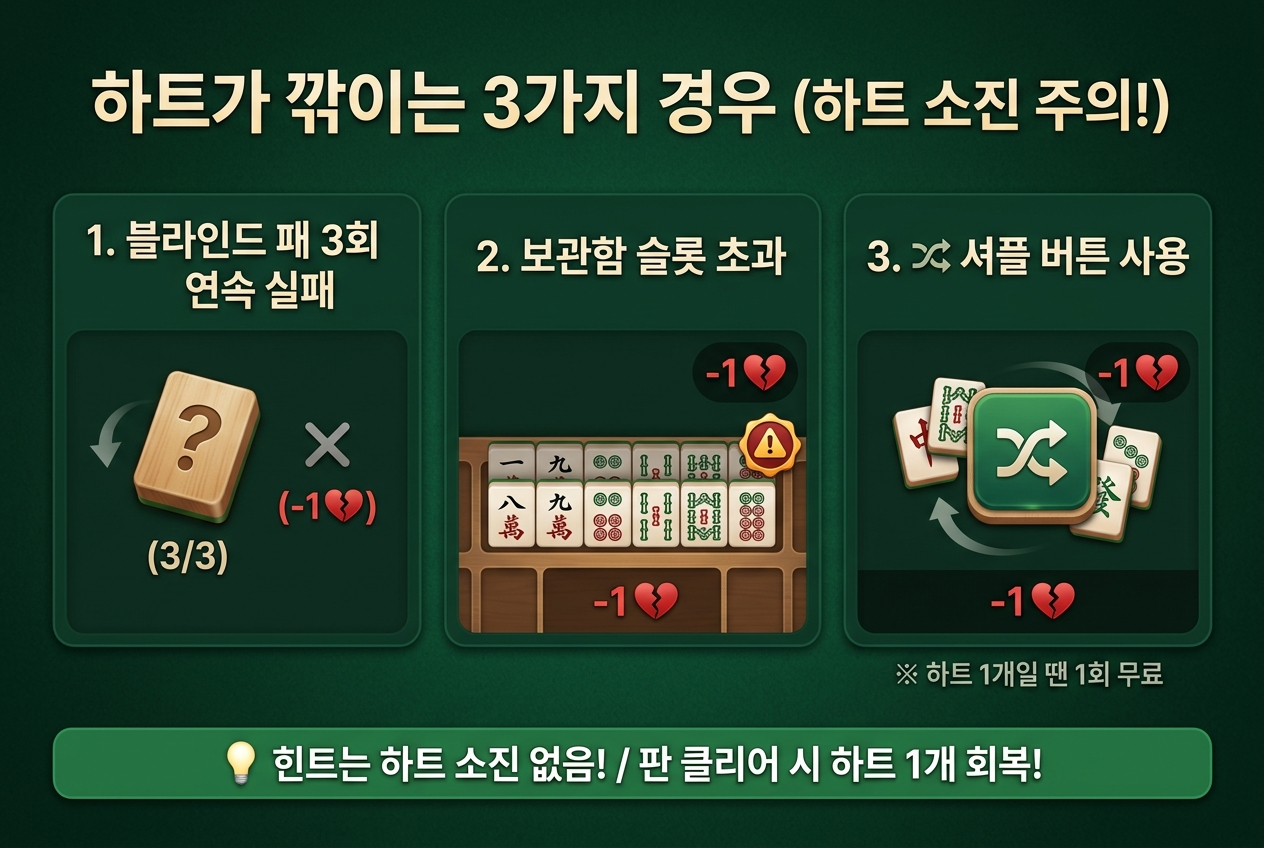
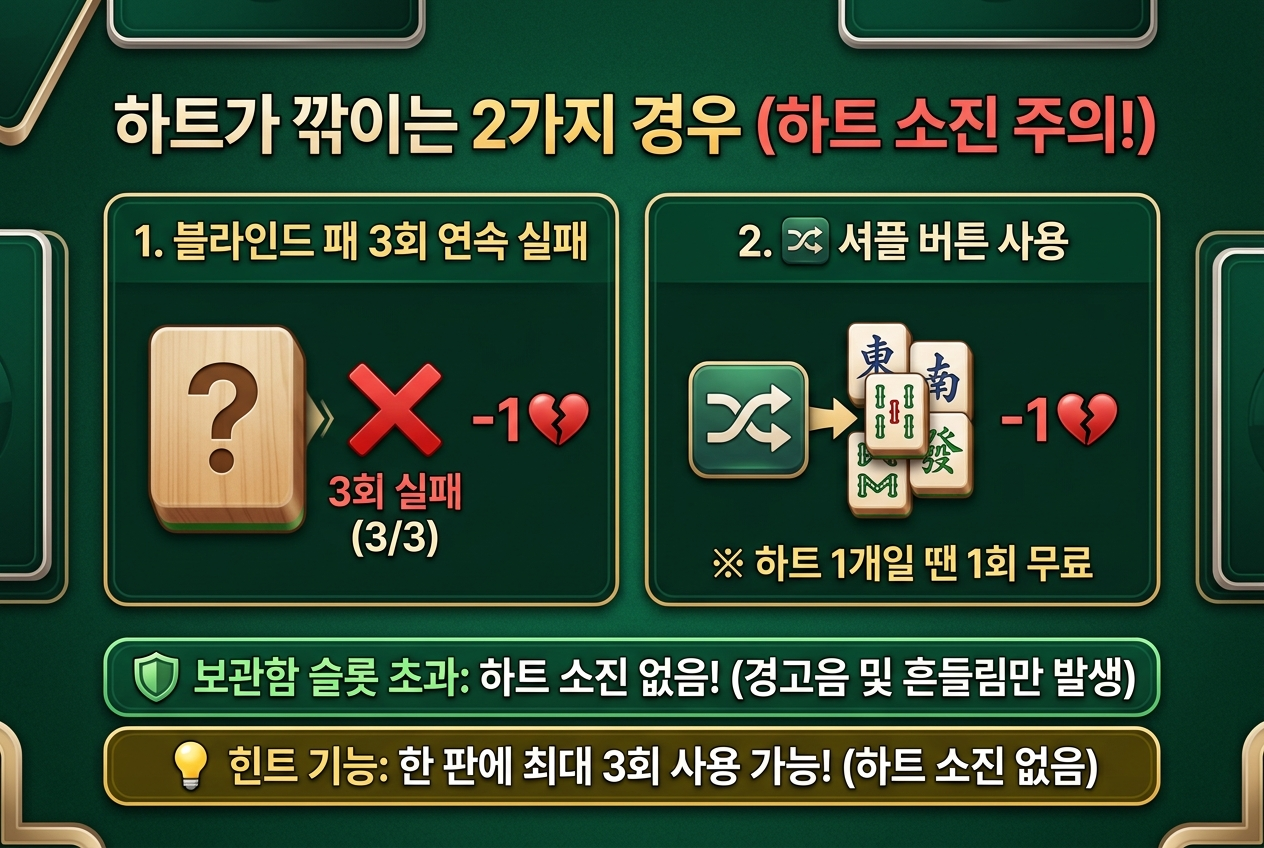
feat: 보관함 포화 시 하트 보존(경고음만), 하트 소진 2가지(셔플/블라인드 실패) 한정, 힌트 판당 3회 제한 구현

diff --git a/majongMain.html b/majongMain.html
@@ -2862,8 +2862,8 @@
       <button class="btn btn-dock" id="btn-undo" title="한 수 되돌리기">
         <span class="btn-icon">↩</span><span class="btn-label">되돌리기</span>
       </button>
-      <button class="btn btn-dock" id="btn-hint" title="매치 짝 힌트">
-        <span class="btn-icon">💡</span><span class="btn-label">힌트</span>
+      <button class="btn btn-dock" id="btn-hint" title="매치 짝 힌트 (판당 최대 3회)">
+        <span class="btn-icon">💡</span><span class="btn-label" id="hint-label">힌트 (3)</span>
       </button>
       <button class="btn btn-dock" id="btn-shuffle" title="패 섞기 (하트 1개 소모)">
         <span class="btn-icon">🔀</span><span class="btn-label">셔플</span>
@@ -2993,13 +2993,13 @@
     </div>
   </div>
 
-  <!-- 게임방법 간단설명 (하트 소진 가이드) 모달 -->
+  <!-- 게임방법 간단설명 (하트 소진 2가지 가이드) 모달 -->
   <div class="modal-overlay" id="quick-rules-modal">
     <div class="modal-card quick-rules-card">
       <div class="quick-rules-header">
         <div style="display: flex; align-items: center; gap: 8px;">
           <span style="font-size: 22px;">💔</span>
-          <h2 class="modal-title" style="margin-bottom: 0; font-size: 20px; color: #123927;">하트가 깎이는 3가지 경우</h2>
+          <h2 class="modal-title" style="margin-bottom: 0; font-size: 20px; color: #123927;">하트가 깎이는 2가지 경우</h2>
         </div>
         <button class="quick-rules-close-icon" id="btn-quick-rules-close-x" aria-label="닫기">✕</button>
       </div>
@@ -3007,10 +3007,10 @@
       <div class="quick-rules-body">
         <!-- 인포그래픽 이미지 한 컷 -->
         <div class="quick-rules-img-container">
-          <img src="assets/quick_rules_guide.jpg" alt="시연 마작 하트 소진 3가지 규칙 인포그래픽" class="quick-rules-img">
+          <img src="assets/quick_rules_guide.jpg" alt="시연 마작 하트 소진 2가지 규칙 인포그래픽" class="quick-rules-img">
         </div>
 
-        <!-- 하트 소진 3가지 경우 요약 카드 -->
+        <!-- 하트 소진 2가지 경우 및 안전 규칙 요약 카드 -->
         <div class="quick-rules-summary-box">
           <div class="quick-summary-item">
             <span class="quick-step-badge" style="background: linear-gradient(135deg, #e53e3e, #9b2c2c);">1</span>
@@ -3022,22 +3022,21 @@
           <div class="quick-summary-item">
             <span class="quick-step-badge" style="background: linear-gradient(135deg, #e53e3e, #9b2c2c);">2</span>
             <div class="quick-step-content">
-              <strong>보관함 슬롯 초과 (-1💔)</strong>
-              <p>임시 보관함 슬롯이 꽉 찬 상태에서 보드의 패를 추가로 터치하면 <strong>슬롯 초과 경고와 함께 하트 1개</strong>가 깎입니다. (마지막 패는 보드로 자동 반환)</p>
-            </div>
-          </div>
-          <div class="quick-summary-item">
-            <span class="quick-step-badge" style="background: linear-gradient(135deg, #e53e3e, #9b2c2c);">3</span>
-            <div class="quick-step-content">
               <strong>패 셔플 (🔀 버튼) 사용 (-1💔)</strong>
               <p>패를 다시 섞는 [🔀 셔플] 사용 시 <strong>하트 1개</strong>가 소진됩니다. (단, <strong>하트가 1개 남았을 때는 판당 1회 '마지막 기회 무료 셔플'</strong> 발동)</p>
             </div>
           </div>
 
-          <!-- 팁 바 -->
-          <div style="font-size: 12px; color: #1c744f; background: #eaf6ef; border: 1px solid #bfe3cf; border-radius: 8px; padding: 8px 10px; margin-top: 4px; display: flex; align-items: center; gap: 6px;">
-            <span style="font-size: 15px;">💡</span>
-            <span><strong>보너스 팁:</strong> [💡 힌트]는 하트 소진 없이 무료! / 판을 클리어할 때마다 하트 1개 회복!</span>
+          <!-- 보관함 안전 안내 바 -->
+          <div style="font-size: 12.5px; color: #155734; background: #eaf6ef; border: 1px solid #bfe3cf; border-radius: 8px; padding: 8px 10px; display: flex; align-items: center; gap: 8px;">
+            <span style="font-size: 16px;">🛡</span>
+            <div><strong>보관함 슬롯 초과 시:</strong> 하트 소진 없음! (경고음 및 흔들림만 발생)</div>
+          </div>
+
+          <!-- 힌트 안내 바 -->
+          <div style="font-size: 12.5px; color: #744210; background: #fefcbf; border: 1px solid #f6e05e; border-radius: 8px; padding: 8px 10px; display: flex; align-items: center; gap: 8px;">
+            <span style="font-size: 16px;">💡</span>
+            <div><strong>힌트 기능:</strong> 한 판에 <strong>최대 3회</strong> 사용 가능! (하트 소진 없음)</div>
           </div>
         </div>
       </div>
@@ -3081,7 +3080,7 @@
           <div class="rule-num">3</div>
           <div class="rule-text">
             <strong>임시 보관함 슬롯 한도 (난이도별 5~3개)</strong>
-            <p>난이도에 따라 기본 5~3개의 슬롯이 고정 부여됩니다. 슬롯이 꽉 차면 더 이상 패를 넣을 수 없으므로, 같은 모양 2개를 모아 빠르게 비워내야 합니다.</p>
+            <p>난이도에 따라 기본 5~3개의 슬롯이 고정 부여됩니다. 슬롯이 꽉 차면 더 이상 패를 넣을 수 없으며, 이때 보드의 패를 터치하면 <strong>경고음과 흔들림만 발생하고 하트는 소진되지 않습니다</strong>. (보관함의 패를 터치하여 다시 보드로 반환하거나 짝을 맞춰 슬롯을 비울 수 있습니다.)</p>
           </div>
         </div>
         <div class="rule-item">
@@ -3095,9 +3094,8 @@
         <div class="rule-item">
           <div class="rule-num">5</div>
           <div class="rule-text">
-            <strong>도움 기능 & 하트 관리</strong>
-            <p>[🔀 셔플] 사용 시 하트 1개가 소진됩니다. (단, <strong>하트가 1개 남았을 때는 판당 1회 '마지막 기회 무료 셔플'</strong>이 발동됩니다.) 각 판을 클리어하면 하트
-              1개가 회복되며, [💡 힌트]는 하트 소진 없이 사용할 수 있습니다.</p>
+            <strong>도움 기능 (힌트 판당 3회 제한 & 셔플 하트 소진)</strong>
+            <p>[💡 힌트]는 하트 소진 없이 <strong>한 판당 최대 3회까지</strong> 사용할 수 있습니다. [🔀 셔플]은 사용 시 <strong>하트 1개가 소진</strong>됩니다. (단, <strong>하트가 1개 남았을 때는 판당 1회 '마지막 기회 무료 셔플'</strong>이 발동됩니다.) 각 판을 클리어하면 하트 1개가 회복됩니다.</p>
           </div>
         </div>
         <div class="rule-item">
@@ -6801,7 +6799,8 @@
 
         document.getElementById('btn-undo').disabled = true;
         document.getElementById('btn-shuffle').disabled = false;
-        document.getElementById('btn-hint').disabled = false;
+        this.hintsRemaining = 3;
+        this.updateHintUI();
         this.hasUsedLastChanceShuffle = false;
 
         this.buildSolvableBoard();
@@ -6896,7 +6895,8 @@
 
         document.getElementById('btn-undo').disabled = true;
         document.getElementById('btn-shuffle').disabled = false;
-        document.getElementById('btn-hint').disabled = false;
+        this.hintsRemaining = 3;
+        this.updateHintUI();
 
         // 해당 판의 초기 타일 배치 복원 (cloneTileData 사용으로 render 함수 보존)
         if (this.initialTiles && this.initialTiles.length > 0) {
@@ -7812,15 +7812,6 @@
        */
       handleTrayOverflow(lastItem) {
         this.sound.playMiss();
-        if (this.sound.playDamage) this.sound.playDamage();
-
-        const flash = document.getElementById('damage-flash');
-        if (flash) {
-          flash.classList.remove('active');
-          void flash.offsetWidth;
-          flash.classList.add('active');
-          setTimeout(() => flash.classList.remove('active'), 500);
-        }
 
         const trayEl = document.getElementById('tray-container');
         if (trayEl) {
@@ -7829,11 +7820,7 @@
           trayEl.classList.add('danger');
         }
 
-        // 하트 1개 소진
-        this.loseLife();
-
-        if (this.isGameOver) return;
-
+        // 규칙 변경: 보관함 포화 시 하트는 깎이지 않으며 경고음 및 흔들림만 발생
         // 슬롯 동적 확장 없이 마지막으로 들어온 패를 보드로 강제 반환
         setTimeout(() => {
           if (this.trayTiles.length >= this.maxSlots) {
@@ -7901,12 +7888,32 @@
         return pairs;
       }
 
+      updateHintUI() {
+        const btnHint = document.getElementById('btn-hint');
+        const hintLabel = document.getElementById('hint-label');
+        if (hintLabel) {
+          hintLabel.textContent = `힌트 (${this.hintsRemaining})`;
+        }
+        if (btnHint) {
+          btnHint.title = `매치 짝 힌트 (남은 횟수: ${this.hintsRemaining}/3)`;
+          btnHint.disabled = (this.hintsRemaining <= 0);
+        }
+      }
+
       showHint() {
-        if (this.isAutoClearing) return;
+        if (this.isAutoClearing || this.isGameOver || this.isClear) return;
+        if (this.hintsRemaining <= 0) {
+          this.sound.playMiss();
+          alert("이번 판에서 사용 가능한 힌트(3회)를 모두 소진했습니다!");
+          return;
+        }
+
         this.clearHints();
         const pairs = this.getAvailablePairs();
 
         if (pairs.length > 0) {
+          this.hintsRemaining--;
+          this.updateHintUI();
           this.sound.playSelect();
           const [t1, t2] = pairs[0];
           if (t1 && t1.el && !t1.removed) t1.el.classList.add('hinted');
@@ -7926,6 +7933,8 @@
           const freeTiles = activeTiles.filter(t => this.isTileFree(t));
 
           if (this.trayTiles.length < this.maxSlots && freeTiles.length > 0) {
+            this.hintsRemaining--;
+            this.updateHintUI();
             this.sound.playSelect();
             // 아래층 패를 가리고 있는 자유 패 우선 추천
             const candidate = freeTiles.find(t => {
@@ -7936,9 +7945,9 @@
               candidate.el.classList.add('hinted');
               setTimeout(() => this.clearHints(), 3200);
             }
-            alert("현재 즉시 맞는 짝은 없지만 슬롯에 여유가 있습니다!\n빛나는 패를 슬롯에 담아 아래층 패를 열어보세요.");
+            alert(`[힌트 사용 (남은 횟수: ${this.hintsRemaining}회)]\n현재 즉시 맞는 짝은 없지만 슬롯에 여유가 있습니다!\n빛나는 패를 슬롯에 담아 아래층 패를 열어보세요.`);
           } else {
-            alert("현재 진행할 수 있는 수가 없습니다. 패를 섞거나(셔플) 되돌리기를 사용하세요.");
+            alert("현재 진행할 수 있는 수가 없습니다. 패를 섞거나(셔플) 되돌리기를 사용하세요. (힌트 횟수는 차감되지 않았습니다)");
           }
         }
       }
